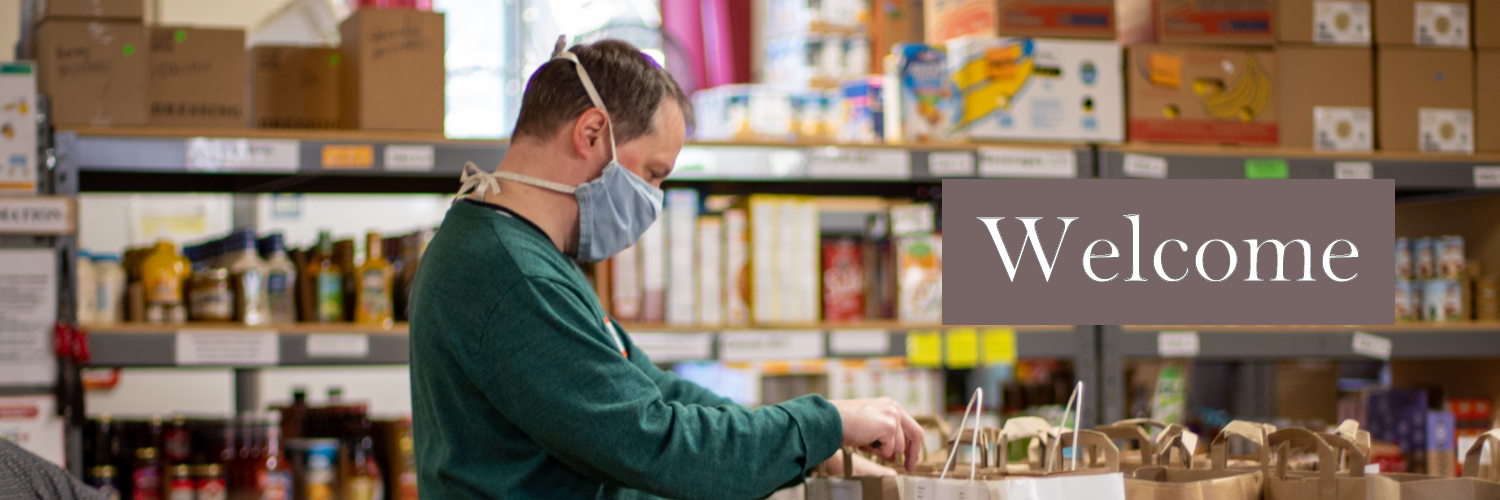
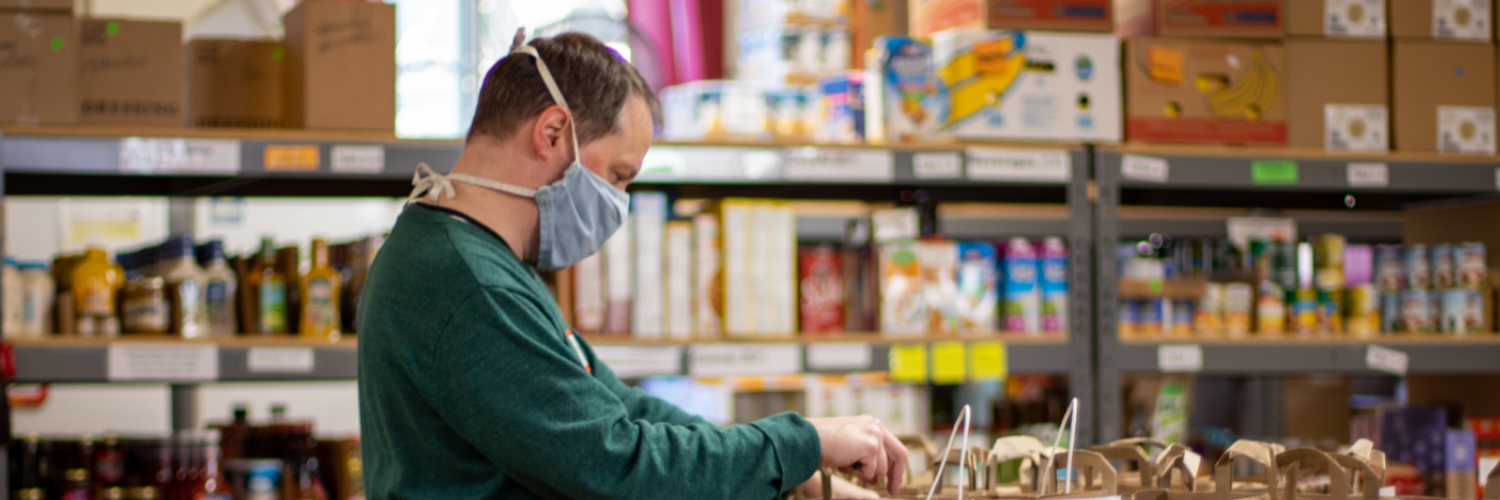
phoebe's

diff --git a/templates/paypal/customer_credit_form.html b/templates/paypal/customer_credit_form.html
@@ -7,7 +7,8 @@ Library Loan System - HomeDen
 <head>
     <link rel="stylesheet" href="{{ url_for('static', filename='Assets/css/style.css') }}">
     <link rel="stylesheet" href="{{ url_for('static', filename='chatbot/stylingChat.css') }}">
-  <meta charset="utf-8"/>
+    <link rel="stylesheet" href="{{ url_for('static', filename='Assets/css/createstaff.css') }}">
+    <meta charset="utf-8"/>
 
   <!-- Optimal rendering on mobile devices. -->
   <meta name="viewport" content="width=device-width, initial-scale=1">
@@ -129,6 +130,8 @@ padding:10px;
         <div class = "overlay"></div>
         <div class = "content">
           <div class="close-btn" onclick="togglePopup('creditcard')">&times;</div>
+
+<div class="form-style-9">
   <form method="POST" action="">
     <div class="form-group">
       {{ render_field(form.name, class="form-control") }}
@@ -143,16 +146,19 @@ padding:10px;
       {{ render_field(form.card_no, class="form-control") }}
     </div>
     <div class="form-group">
-      {{ render_field(form.expiry, class="form-control datapicker") }}
+      {{ render_field(form.expiry, class="form-control ") }}
+    </div>
+    <div class="form-group">
+      {{ render_field(form.expiry_month, class="form-control ") }}
     </div>
     <div class="form-group">
       {{ render_field(form.cvv, class="form-control ") }}
     </div>
-    <input type="submit" value="CONFIRM" class="btn btn-primary"/>
+    <input type="submit" onclick="send_data()" value="CONFIRM" class="btn btn-primary"/>
   </form>
         </div>
       </div>
-
+      </div>
 
 
 
@@ -180,7 +186,7 @@ padding:10px;
              }]
            });
          },
-         onApprove: function(data, actions) {
+        onApprove: function(data, actions) {
           return actions.order.capture().then(function(orderData) {
             var overallprice = document.getElementById('total_price').innerText
             $.ajax({
@@ -191,17 +197,24 @@ padding:10px;
                 window.location.href = '/SuccessReceipt'
               }
             });
-
-
-            // Successful capture! For dev/demo purposes:
-<!--                console.log('Capture result', orderData, JSON.stringify(orderData, null, 2));-->
-<!--                var transaction = orderData.purchase_units[0].payments.captures[0];-->
-<!--                alert('Transaction '+ transaction.status + ': ' + transaction.id + '\n\nSee console for all available details');-->
-
-<!--             window.location.href = '/SuccessReceipt';-->
            });
          }
      }).render("#paypal-button-container");
+
+     function send_data(event){
+            var overallprice = document.getElementById('total_price').innerText
+        $.ajax({
+          url: "/ReceiptDetails",
+          type: "POST",
+          data: {'totalprice' : overallprice},
+          success: function( result ) {
+            window.location.href = '/SuccessReceipt'
+        }
+        });
+     }
+
+
+     alert("hu")
 
 
    </script>

diff --git a/templates/home.html b/templates/home.html
@@ -3,23 +3,35 @@
 Library Loan System - HomeDen
 {% endblock %}
 {% block content %}
-<!-- Image Carousel -->
-<div id="imageCarousel" class="carouselSlide" data-ride="carousel">
-    <div class="carousel-inner">
-        <div class="carousel-item active">
-            <img class="d-block w-100"  src="{{image1}}" alt="Close up picture of a group of potatoes">
+  <section id="hero">
+    <div id="heroCarousel" data-bs-interval="5000" class="carousel slide carousel-fade" data-bs-ride="carousel">
+
+      <div class="carousel-inner" role="listbox">
+        <div class="carousel-item active" style="background-image: url(./static/Assets/images/staff_working.png)">
+          <div class="carousel-container">
+            <div class="container">
+              <h2 class="animate__animated animate__fadeInDown"><span>Welcome</span></h2>
+              <p class="animate__animated animate__fadeInUp">HomeDen a place like HOME</p>
+              <a href="#events" class="btn-get-started animate__animated animate__fadeInUp scrollto">Events</a>
+            </div>
+          </div>
         </div>
-        <div class="carousel-item">
-            <img class="d-block w-100" src="{{image2}}" alt="Sliced citrus fruits being put on the surface" />
+        <div class="carousel-item" data-interval="5000">
+            <img class="d-block w-100" src="{{image2}}" alt="Fresh egg" />
         </div>
-        <div class="carousel-item">
-            <a href="/Login"><img class="d-block w-100" src="{{image4}}" alt="Staff preparing for supermarket's online orders" /></a>
+        <div class="carousel-item" data-interval="5000">
+            <a href="/Login"><img class="d-block w-100" src="{{image4}}" alt="game" /></a>
         </div>
-        <div class="carousel-item">
-            <img class="d-block w-100" src="{{image5}}" alt="A few lemons in a grocery bag net" />
+        <div class="carousel-item" data-interval="5000">
+            <img class="d-block w-100" src="{{image5}}" alt="voucher" />
         </div>
+
+      </div>
     </div>
-    <!-- Buttons for users to go previous page or next page respectively-->
+  </section>
+
+
+
     <a class="carousel-control-prev" role="button" data-slide="prev" onclick="plusSlides(-1)" style="color: black; height: 10%; margin-top: 330px;">
         <span class="carousel-control-prev-icon" aria-hidden="true"></span>
         <span class="sr-only">Previous</span>
@@ -29,6 +41,8 @@ Library Loan System - HomeDen
         <span class="sr-only">Next</span>
     </a>
 </div>
+<br><br>
+<h1 style="text-align: center" class="events" id="events">Events</h1>
 <br><br>
     <div id="senior citizens'day" style="text-align:center; width:60%;float:left;padding: 20px">
         <h1>SENIOR CITIZEN'S DAY</h1>

diff --git a/templates/customer/home.html b/templates/customer/home.html
@@ -8,16 +8,16 @@ Library Loan System - HomeDen
 <div id="imageCarousel" class="carouselSlide" data-ride="carousel">
     <div class="carousel-inner" >
         <div class="carousel-item active">
-            <img class="d-block w-100" src="{{image1}}" alt="Close up picture of a group of potatoes">
+            <img class="d-block w-100" src="{{image1}}" alt=" Worker working and welcome">
         </div>
         <div class="carousel-item">
-            <img class="d-block w-100" src="{{image2}}" alt="Sliced citrus fruits being put on the surface" />
+            <img class="d-block w-100" src="{{image2}}" alt="Fresh egg" />
         </div>
         <div class="carousel-item">
-            <a href="/game2"><img class="d-block w-100" src="{{image4}}" alt="Staff preparing for supermarket's online orders" /></a>
+            <a href="/game2"><img class="d-block w-100" src="{{image4}}" alt="game" /></a>
         </div>
         <div class="carousel-item">
-            <img class="d-block w-100" src="{{image5}}" alt="A few lemons in a grocery bag net" />
+            <img class="d-block w-100" src="{{image5}}" alt="voucher" />
         </div>
     </div>
     <!-- Buttons for users to go previous page or next page respectively-->

diff --git a/forms/forms.py b/forms/forms.py
@@ -10,15 +10,19 @@ class signupForm(Form):
     address = TextAreaField('Mailing Address:', [validators.length(max=200), validators.DataRequired()])
     postalCode = IntegerField('Postal Code:', [validators.length(min=6, max=6), validators.DataRequired()])
 
+
 class loginForm(Form):
     email = EmailField('Email:', [validators.Email(), validators.DataRequired()])
     password = PasswordField('Password:', [validators.length(max=100), validators.DataRequired()])
 
+
 class emailForm(Form):
     email = EmailField('Email:', [validators.Email(), validators.DataRequired()])
 
+
 class passwordForm(Form):
     password = PasswordField('Password:', [validators.length(max=100), validators.DataRequired()])
+
 
 class feedbackForm(Form):
     cust_name = StringField('Name:', [validators.Length(min=1, max=150), validators.DataRequired()])
@@ -35,6 +39,7 @@ class createProduct(Form):
     product_Discount = StringField('Discount Rate of Product: ', [validators.Length(min=1, max=150), validators.DataRequired()])
     product_Date = StringField('Update Date Time of Product: ', [validators.Length(min=1, max=150), validators.DataRequired()])
     product_Picture = StringField('Product Image : ', [validators.Length(min=1, max=150), validators.DataRequired()])
+
 
 class updateProduct(Form):
     product_Name = StringField('Product Name: ', [validators.Length(min=1, max=150), validators.DataRequired()])
@@ -55,10 +60,12 @@ class updateCust(Form):
     contactNum = TextAreaField('Contact Number:', [validators.length(max=200), validators.DataRequired()])
     membership = TextAreaField('Membership Points:', [validators.length(max=200), validators.DataRequired()])
 
+
 class updateStaff(Form):
     name = StringField('Name:', [validators.Length(min=1, max=150), validators.DataRequired()])
     email = EmailField('Email:', [validators.Email(), validators.DataRequired()])
     remarks = TextAreaField('Remarks:', [validators.length(max=200), validators.DataRequired()])
+
 
 class createStaff(Form):
     name = StringField('Name:', [validators.Length(min=1, max=150), validators.DataRequired()])
@@ -66,15 +73,18 @@ class createStaff(Form):
     password = PasswordField('Password:', [validators.length(max=100), validators.DataRequired()])
     remarks = TextAreaField('Remarks:', [validators.length(max=200), validators.DataRequired()])
 
+
 class updateStaffaccount(Form):
     name = StringField('Name:', [validators.Length(min=1, max=150), validators.DataRequired()])
     email = EmailField('Email:', [validators.Email(), validators.DataRequired()])
+
 
 class CreditCardForm(Form):
     name = StringField('Name:', [validators.Length(min=1, max=150), validators.DataRequired()])
     email = EmailField('Email:', [validators.Email(), validators.DataRequired()])
     address = TextAreaField('Mailing Address:', [validators.Length(max=200), validators.DataRequired()])
-    card_no = StringField('Card Number:', [validators.Length(max=16), validators.DataRequired()])
-    expiry = DateField('Valid Till:', format='%Y-%m-%d')
-    cvv = StringField('CVV:', [validators.Length(max=3), validators.DataRequired()])
+    card_no = StringField('Card Number:', [validators.Length(min=16, max=16), validators.DataRequired()])
+    expiry = StringField('Valid Till (YEAR):', [validators.Length(min=2, max=2), validators.DataRequired()])
+    expiry_month = StringField('Valid Till (MONTH):', [validators.Length(min=2, max=2), validators.DataRequired()])
+    cvv = StringField('CVV:', [validators.Length(min=3, max=3), validators.DataRequired()])
 

diff --git a/__init__.py b/__init__.py
@@ -671,7 +671,7 @@ def receiptDetails():
             send_receipt_details('3',price, current_time,order_id)
             if 'cart_item' in session:
                 session.pop('cart_item')
-            return redirect(url_for(retrieve_database_receipt))
+                return redirect(url_for(retrieve_database_receipt))
 
     except Exception as e:
         print('prob is',e)
@@ -757,13 +757,16 @@ def add_product():
             session.modified = True
             if 'cart_item' in session:
                 if cursor_data.ProductID in session['cart_item']:
+                    print(cursor_data.ProductID)
                     for key, value in session['cart_item'].items():
                         if cursor_data.ProductID == key:
                             old_quantity = session['cart_item'][key]['quantity']
                             total_quantity = old_quantity + _quantity
+                            print(old_quantity,total_quantity)
                             session['cart_item'][key]['quantity'] = total_quantity
                             session['cart_item'][key]['total_price'] = total_quantity * cursor_data.ProductPrice
                 else:
+                    print('shit')
                     session['cart_item'] = array_merge(session['cart_item'], selectedItem)
 
                 for key, value in session['cart_item'].items():
@@ -828,15 +831,6 @@ def delete_product(code):
                         shopping_cart_dict.pop(int(code))
                         price = cart_items(int(code),'','','',all_total_price,'','')
                         shopping_cart_dict[price.get_product_id()] = price
-
-                        # dictionary = shopping_cart_dict
-                        # new_total = dictionary.get_price()
-
-                        for key,value in shopping_cart_dict.items():
-                            print(key,value)
-
-                        # print(new_total)
-                        # shopping_cart_dict.update(new_total)
 
                         db['ShoppingCart'] = shopping_cart_dict
                         db.close()
@@ -907,7 +901,7 @@ def credit_card_form():
         except:
             print("Error in retrieving Customers Information from customerInfo.db.")
 
-        customerInfo = CustomerInfo(CreditCard.name.data, CreditCard.email.data,  CreditCard.address.data, CreditCard.card_no.data, CreditCard.expiry.data, CreditCard.cvv.data)
+        customerInfo = CustomerInfo(CreditCard.name.data, CreditCard.email.data,  CreditCard.address.data, CreditCard.card_no.data, CreditCard.expiry.data, CreditCard.expiry_month.data, CreditCard.cvv.data)
         customers_info_dict[customerInfo.get_customer_id()] = customerInfo
         db['CustomersInfo'] = customers_info_dict
 

diff --git a/templates/paypal/CustomerInfo.py b/templates/paypal/CustomerInfo.py
@@ -1,31 +1,39 @@
 from users import Users
 
+
 class CustomerInfo(Users.Users):
     count_id = 0
 
-    def __init__(self,name, email, address, card_no,expiry,cvv):
-        super().__init__( None, name, email,None, None, address)
+    def __init__(self, name, email, address, card_no, expiry, expiry_month, cvv):
+        super().__init__(None, name, email, None, None, address)
         CustomerInfo.count_id += 1
         self.__id = None
         self.__password = None
         self.__membership = None
-        self.__gender =None
+        self.__gender = None
         self.__customerInfo_id = CustomerInfo.count_id
         self.__card_no = card_no
         self.__expiry = expiry
         self.__cvv = cvv
+        self.__expiry_month = expiry_month
 
-    def set_customer_id(self,customer_id):
+    def set_customer_id(self, customer_id):
         self.__customerInfo_id = customer_id
 
-    def set_card_no(self,card_no):
+    def set_card_no(self, card_no):
         self.__card_no = card_no
 
-    def set_expiry(self,expiry):
+    def set_expiry(self, expiry):
         self.__expiry = expiry
 
-    def set_cvv(self,cvv):
+    def set_cvv(self, cvv):
         self.__cvv = cvv
+
+    def set_expiry_month(self, expiry_month):
+        self.__expiry_month = expiry_month
+
+    def get_expiry_month(self):
+        return self.__expiry_month
 
     def get_card_no(self):
         return self.__card_no
